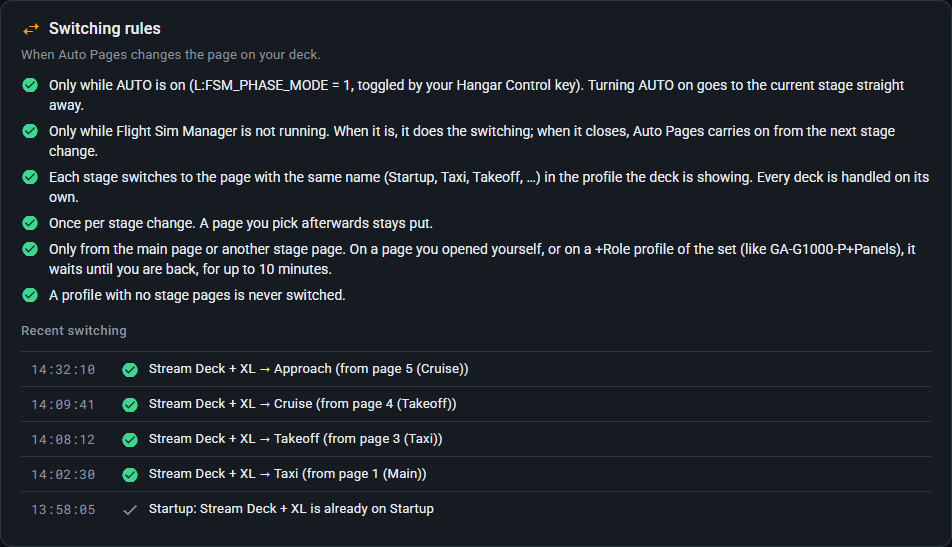
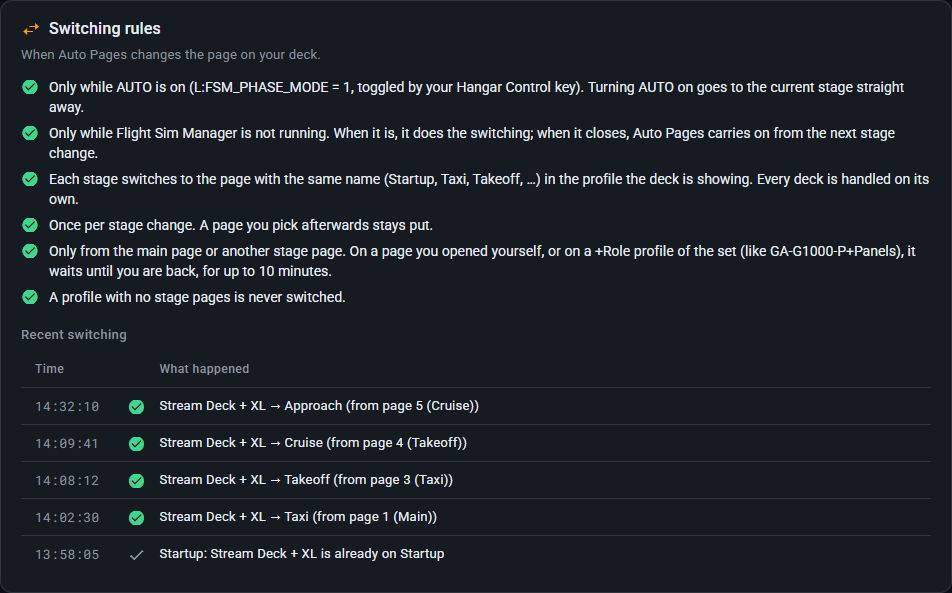
Docs: 1.4.1, Auto Pages screenshots in the Console's style

Changed region(s): [[0.0, 0.0311, 0.9748, 0.9634]]

diff --git a/docs/auto-pages.md b/docs/auto-pages.md
@@ -7,7 +7,7 @@ nav_order: 8.5
 
 Deck Director Auto Pages follows your flight in Microsoft Flight Simulator and switches your Stream Deck to the page for each stage of the flight. It comes with Deck Director 1.4.0 and later.
 
-![The Auto Pages page on approach: the stage, why it changed, the stages already flown in blue, and live readings from the simulator](assets/auto-pages-overview.png)
+![The Auto Pages page on approach: the stage in amber, why it changed, the stages already flown in blue, and live readings from the simulator](assets/auto-pages-overview.png)
 
 ## Setting it up
 
@@ -16,7 +16,7 @@ Deck Director Auto Pages follows your flight in Microsoft Flight Simulator and s
 3. **Start Auto Pages** from the Start menu: **Deck Director → Deck Director Auto Pages**. A small window opens minimised (keep it open while you fly) and its page opens in your browser.
 4. **Turn AUTO on**, on the page or with a Hangar Control key (see below).
 
-Under **Decks**, the page shows what each deck is showing and which of its pages it found for each stage. The current stage's page is amber, the page showing is outlined, and a dashed box means there's no page for that stage.
+Under **Decks**, the page shows what each deck is showing and which page it found for each stage. **Now** marks the current stage's page, **Showing** the page on the deck, and **No page** a stage it couldn't find.
 
 ![Decks: the Stream Deck + XL with all seven stage pages found, following the stages; a Virtual Stream Deck with no stage pages, never switched](assets/auto-pages-decks.png)
 

diff --git a/docs/releases.md b/docs/releases.md
@@ -7,6 +7,10 @@ nav_order: 11
 
 Downloads for every version are on the [Releases page](https://github.com/chriskent/deck-director-releases/releases).
 
+## 1.4.1
+
+- Auto Pages has the same look as the Deck Director Console: the same status pills, deck cards, tables, switches and fields.
+
 ## 1.4.0
 
 - New: **[Auto Pages](auto-pages.md)** follows your flight in Microsoft Flight Simulator and switches your Stream Deck to the page for each stage (Startup, Taxi, Takeoff, Cruise, Approach, Landing, Shutdown). Start it from the Start menu: Deck Director → Deck Director Auto Pages.
